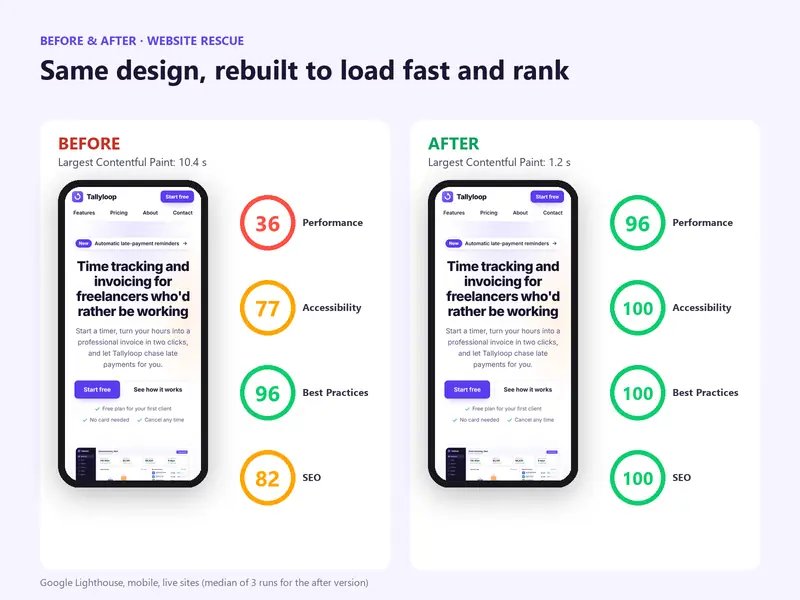
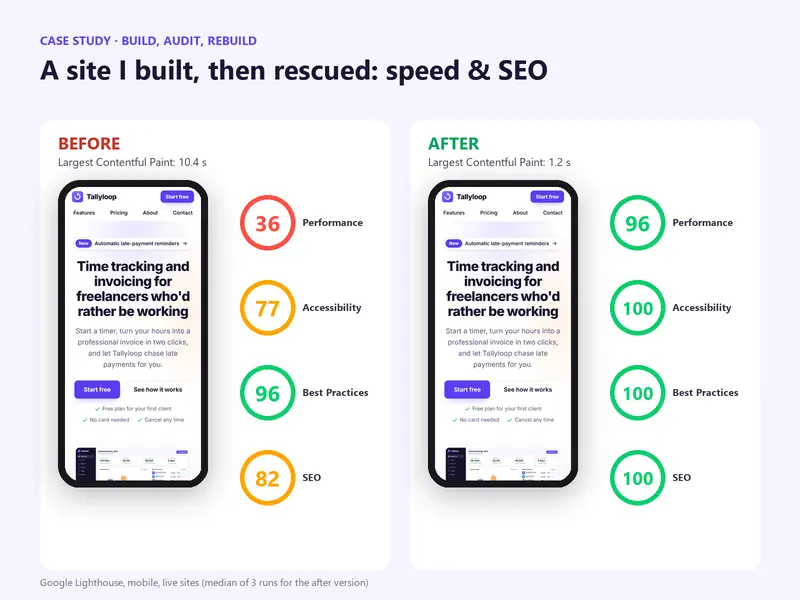
Frame Tallyloop as a build-audit-rebuild case study

Changed region(s): [[0.0312, 0.06, 0.7188, 0.15]]

diff --git a/docs/index.html b/docs/index.html
@@ -101,7 +101,7 @@ footer a { color:#d3dde8; }
 <div class="sec-head"><h2>Case studies</h2><p>Every number below is a real measurement on a live page. The brands are concept projects I built to show the work end to end, and both "before" and "after" versions are online so you can check them yourself.</p></div>
 <div class="work-list"><article class="work">
 <img src="img/rescue.webp" width="800" height="600" alt="" loading="lazy" decoding="async">
-<div class="work-body"><p class="tag">Website rescue · before & after</p><h3>A good-looking site Google could barely read</h3><p>A JavaScript-only startup site rebuilt as fast, crawlable pages, keeping the same design. Google went from receiving 1 word to the full page.</p>
+<div class="work-body"><p class="tag">Website rescue · before & after</p><h3>A good-looking site Google could barely read</h3><p>A startup site I designed, wrote and built, first shipped as a JavaScript-only app, then audited and rebuilt as fast, crawlable pages. Google went from receiving 1 word to the full page.</p>
 <div class="stats"><div><b>36 → 96</b><span>speed score</span></div><div><b>10.4 s → 1.2 s</b><span>load time</span></div></div>
 <p class="links"><a href="files/01-website-rescue-case-study.pdf" target="_blank" rel="noopener">Case study (PDF)</a> <a href="files/02-seo-audit-tallyloop.pdf" target="_blank" rel="noopener">SEO audit (PDF)</a> <a href="https://liampcurran.github.io/tallyloop/" target="_blank" rel="noopener">Live after</a> <a href="https://liampcurran.github.io/tallyloop/before/" target="_blank" rel="noopener">Live before</a></p></div></article><article class="work">
 <img src="img/store.webp" width="800" height="600" alt="" loading="lazy" decoding="async">

diff --git a/build.py b/build.py
@@ -41,7 +41,7 @@ SC = P / "screenshots" / "covers"
 WORK = [
     {"img": cover(SC / "02-tallyloop-cover.png", "rescue"), "tag": "Website rescue · before & after",
      "title": "A good-looking site Google could barely read",
-     "text": "A JavaScript-only startup site rebuilt as fast, crawlable pages, keeping the same design. Google went from receiving 1 word to the full page.",
+     "text": "A startup site I designed, wrote and built, first shipped as a JavaScript-only app, then audited and rebuilt as fast, crawlable pages. Google went from receiving 1 word to the full page.",
      "stats": [("36 → 96", "speed score"), ("10.4 s → 1.2 s", "load time")],
      "links": [("Case study (PDF)", pdf(CS / "01-website-rescue-case-study.pdf")), ("SEO audit (PDF)", pdf(CS / "02-seo-audit-tallyloop.pdf")),
                ("Live after", f"{BASE}/tallyloop/"), ("Live before", f"{BASE}/tallyloop/before/")]},
